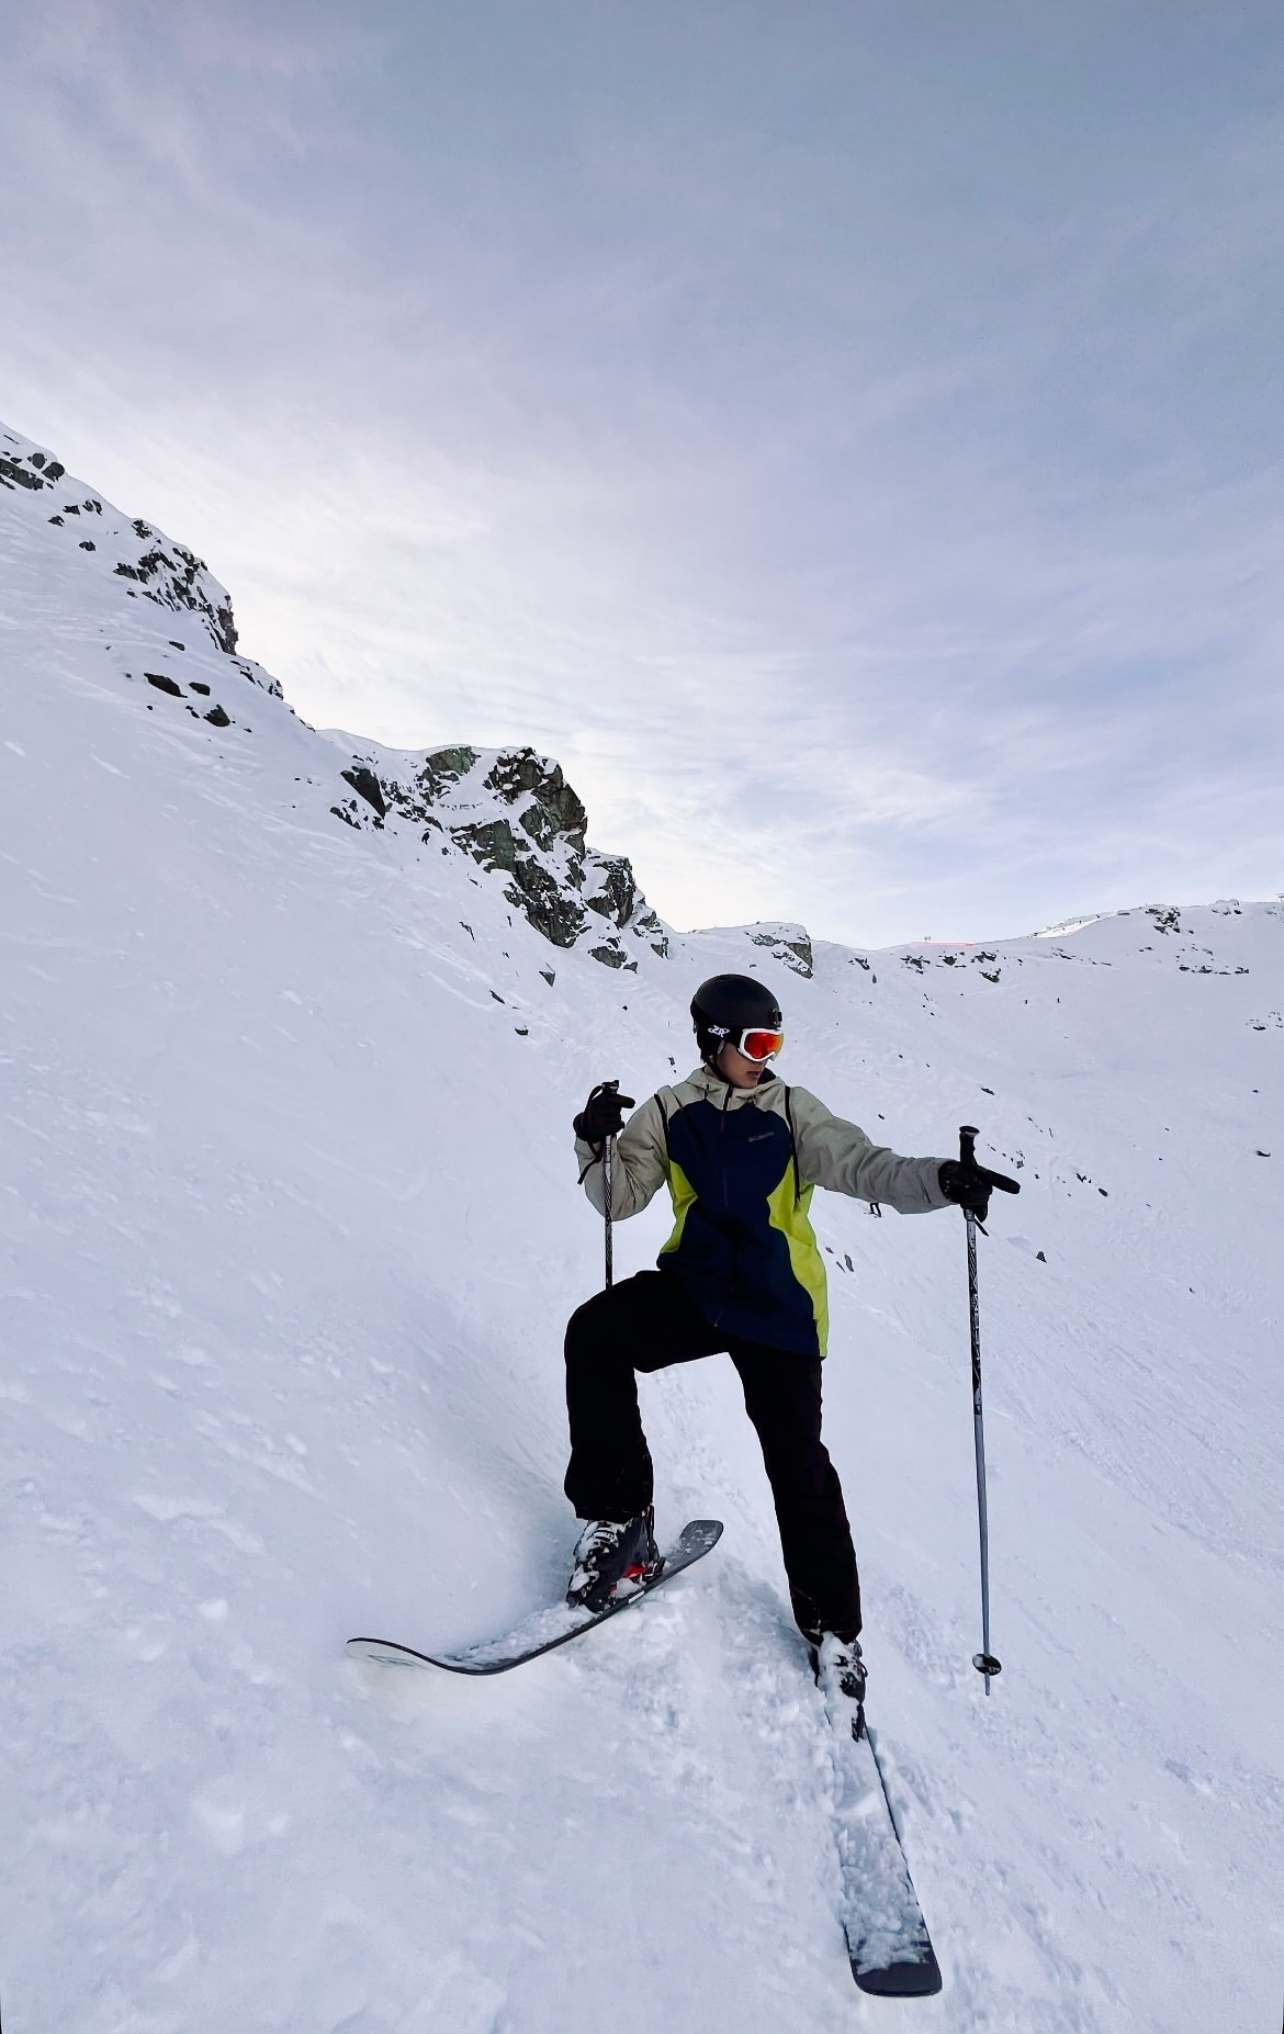
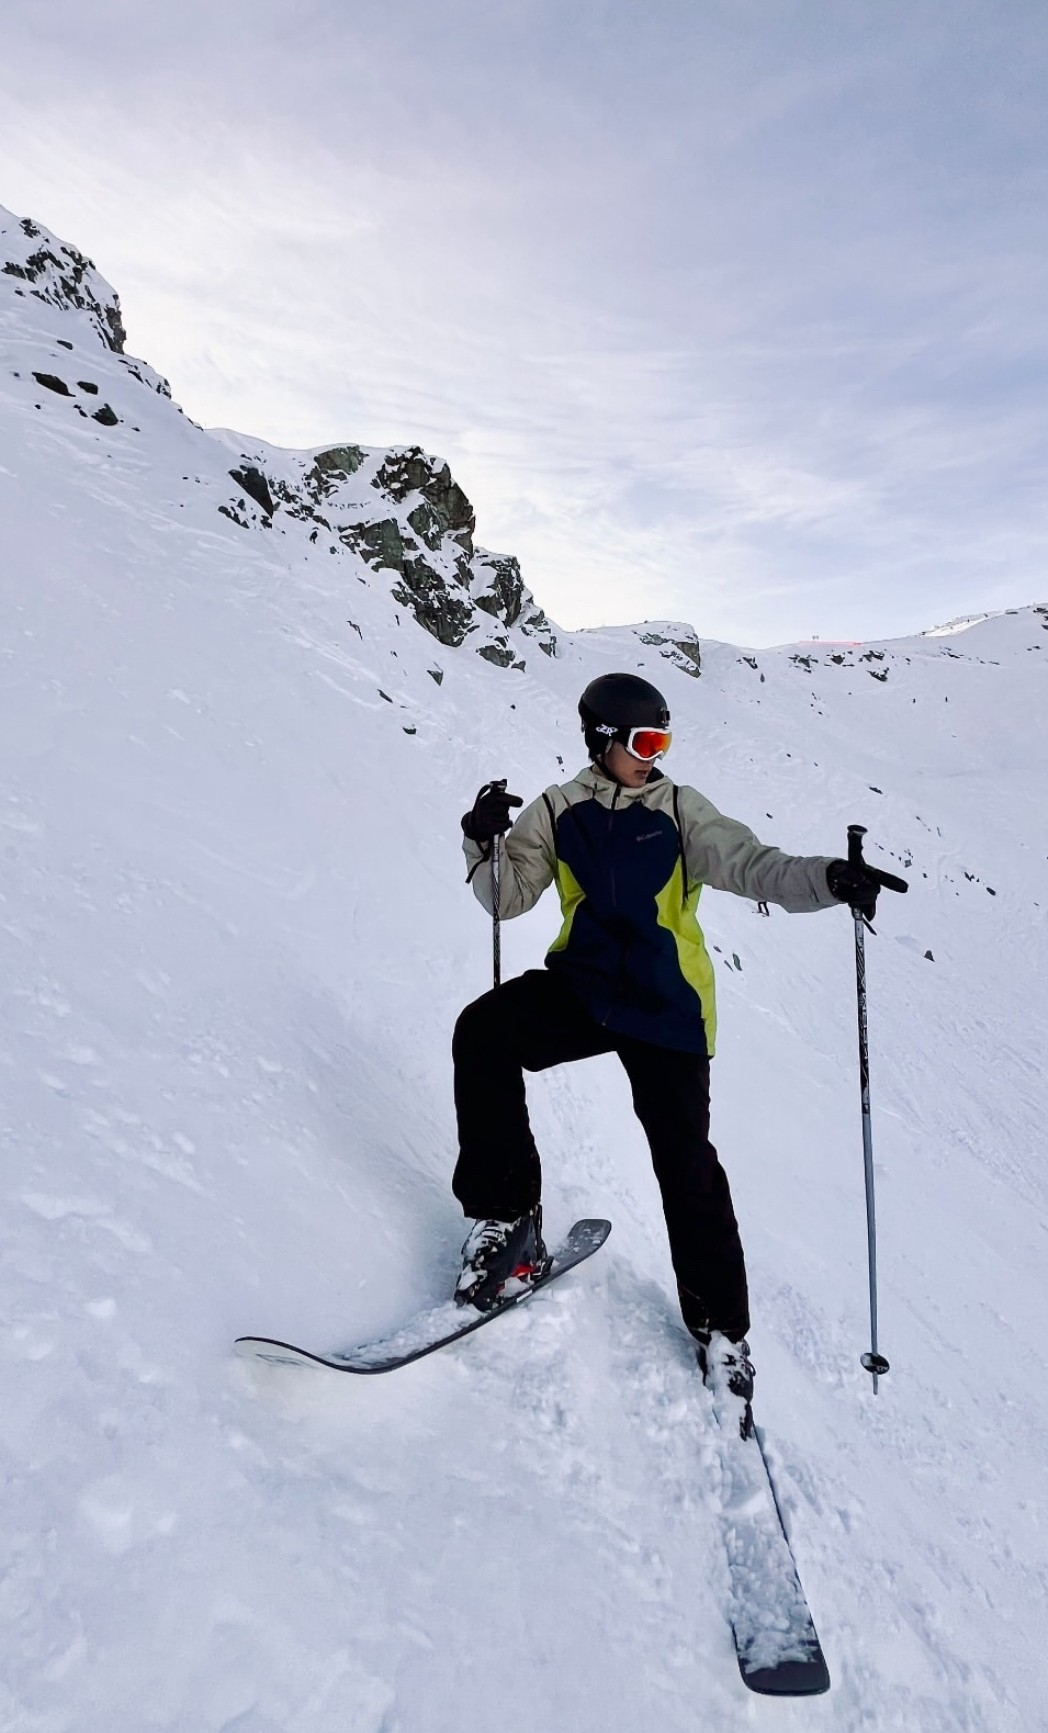
removed unused files, fixed ski filepath

diff --git a/src/app/layout.tsx b/src/app/layout.tsx
@@ -29,7 +29,7 @@ export default function RootLayout({
 }>) {
   return (
     <html lang="en">
-      <body className={`${italiana.className} antialiased background-image-mobile lg:background-image`}>
+      <body className={`${italiana.className} antialiased background-image-mobile lg:background-image lg:overflow-y-hidden`}>
         {children}
       </body>
       <div className={`${alata.className} ${antic.className}`}></div>

diff --git a/src/app/card-contents/about.tsx b/src/app/card-contents/about.tsx
@@ -29,7 +29,7 @@ export default function About() {
             </div>
             <div className="h-full">
               <Image
-                src="/ski.JPG"
+                src="/ski.jpg"
                 alt="skiing"
                 width={168}
                 height={0}
